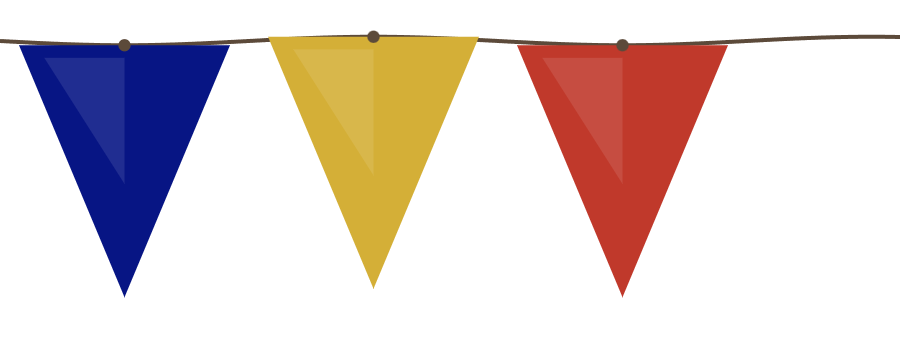
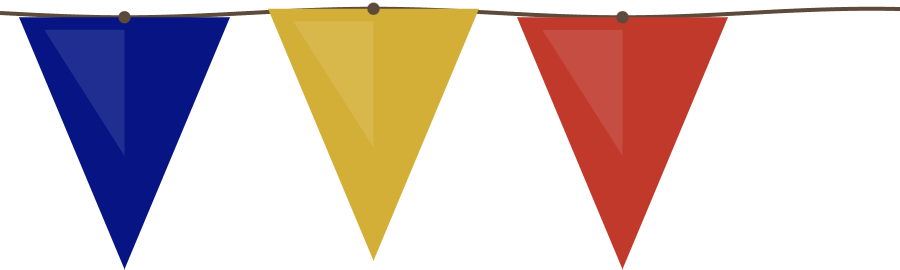
fix: banderole fanions remontée (corde au bord), plus discrète + balancement
- Tile recadré verticalement (retire 30px transparents en haut) : la
  corde est désormais au bord supérieur, plus d'espace en haut de page
- Hauteur 40px -> 32px : couvre moins le logo qu'avant
- Léger balancement (background-position-x, 7s) façon brise, désactivé
  en prefers-reduced-motion

diff --git a/src/css/style.css b/src/css/style.css
@@ -327,12 +327,18 @@ button { cursor: pointer; font-family: inherit; }
   position: fixed;
   top: 0; left: 0; right: 0;
   z-index: 101; /* au-dessus du header */
-  height: 40px;
+  height: 32px;
   background: url('/assets/images/fanions-tile.png') repeat-x left top;
-  background-size: auto 40px;
+  background-size: auto 32px;
   overflow: visible;
   padding: 0; line-height: 0;
   pointer-events: none;
+  /* léger balancement de la guirlande (brise) */
+  animation: fanionsSway 7s ease-in-out infinite alternate;
+}
+@keyframes fanionsSway {
+  from { background-position-x: 0; }
+  to   { background-position-x: 16px; }
 }
 .fanions-track {
   display: flex; align-items: flex-start;
@@ -949,7 +955,7 @@ blockquote cite {
 
 /* Respect reduced motion */
 @media (prefers-reduced-motion: reduce) {
-  .glass, .rooster, .cocorico, .cheers-sparkle, .fanion {
+  .glass, .rooster, .cocorico, .cheers-sparkle, .fanion, .fanions-banner {
     animation: none !important;
   }
 }